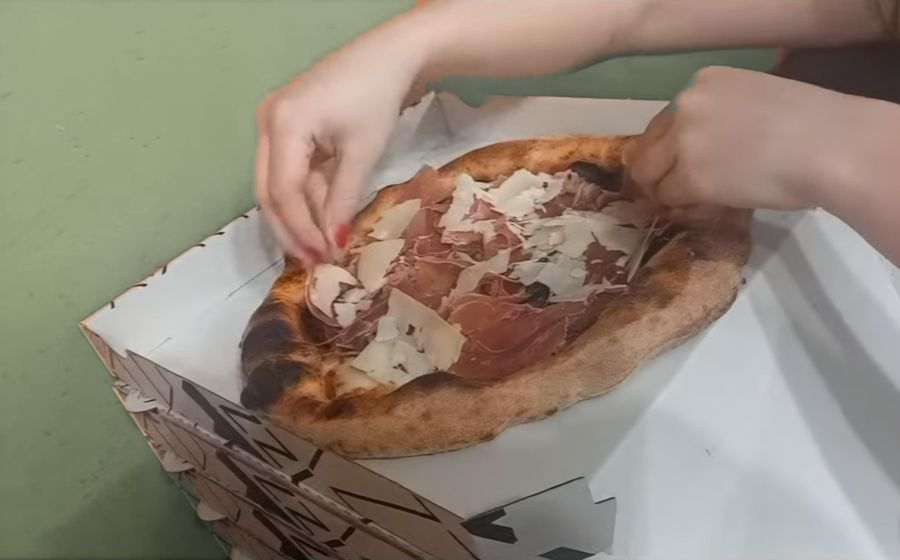
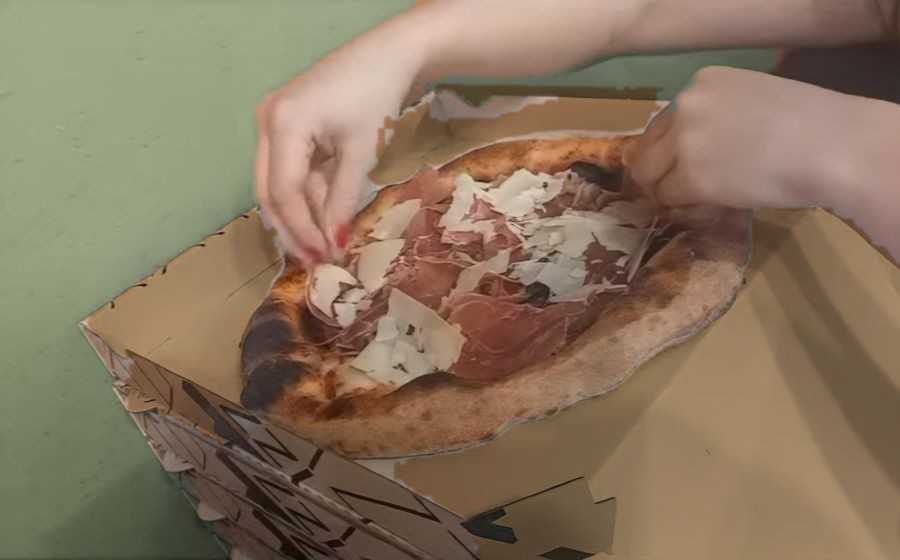
Prova: cartone craft nella foto crudo; voti recensioni in Poppins come gli altri numeri
Claude-Session: https://claude.ai/code/session_01VttuGCFUxa7xeo49rCehPE

Changed region(s): [[0.4356, 0.3643, 1.0, 1.0], [0.0933, 0.3643, 0.3111, 0.7893], [0.4044, 0.1518, 0.7467, 0.3339]]

diff --git a/prova/index.html b/prova/index.html
@@ -108,7 +108,7 @@ h2+.lead{margin:0 0 18px;color:var(--muted)}
 .revn{color:var(--muted);font-size:12.5px;margin:2px 0 12px}
 .rev{display:grid;gap:12px;grid-template-columns:repeat(auto-fit,minmax(min(100%,260px),1fr))}
 .rev a{display:flex;align-items:center;gap:14px;text-decoration:none;background:var(--panel);border:1px solid var(--line);border-radius:16px;padding:16px 18px}
-.rev .sc{font:400 30px/1 var(--display);color:var(--amber);white-space:nowrap}
+.rev .sc{font:700 28px/1 var(--body);color:var(--amber);white-space:nowrap}
 .rev .st{color:var(--amber);letter-spacing:2px}
 .rev .src{font-weight:600}.rev .sm{color:var(--muted);font-size:13px}
 .info{display:grid;gap:12px;grid-template-columns:repeat(auto-fit,minmax(min(100%,300px),1fr))}

diff --git a/_src/site/home.tpl.html b/_src/site/home.tpl.html
@@ -84,7 +84,7 @@ h2+.lead{margin:0 0 18px;color:var(--muted)}
 .revn{color:var(--muted);font-size:12.5px;margin:2px 0 12px}
 .rev{display:grid;gap:12px;grid-template-columns:repeat(auto-fit,minmax(min(100%,260px),1fr))}
 .rev a{display:flex;align-items:center;gap:14px;text-decoration:none;background:var(--panel);border:1px solid var(--line);border-radius:16px;padding:16px 18px}
-.rev .sc{font:400 30px/1 var(--display);color:var(--amber);white-space:nowrap}
+.rev .sc{font:700 28px/1 var(--body);color:var(--amber);white-space:nowrap}
 .rev .st{color:var(--amber);letter-spacing:2px}
 .rev .src{font-weight:600}.rev .sm{color:var(--muted);font-size:13px}
 .info{display:grid;gap:12px;grid-template-columns:repeat(auto-fit,minmax(min(100%,300px),1fr))}

diff --git a/_src/recolor/kraft.py b/_src/recolor/kraft.py
@@ -1,0 +1,25 @@
+# crudo.jpg: cartone bianco -> craft (disegni neri restano). uso: python3 kraft.py in.jpg out.jpg [anteprima.jpg]
+import cv2,numpy as np,sys
+im=cv2.imread(sys.argv[1]);h,w=im.shape[:2]
+hsv=cv2.cvtColor(im,cv2.COLOR_BGR2HSV).astype(np.float32);H,S,V=hsv[...,0],hsv[...,1],hsv[...,2]
+box=((S<45)&(V>40)).astype(np.uint8)          # bianco/grigio/nero del cartone
+poly=np.array([(76,322),(255,206),(398,108),(430,84),(690,88),(900,178),(900,560),(215,560)],np.int32)
+inbox=np.zeros((h,w),np.uint8);cv2.fillPoly(inbox,[poly],1)
+big=np.zeros((h,w),np.uint8);cv2.ellipse(big,(493,292),(285,175),-14,0,360,1,-1)
+sat=((S>55)&(big>0)).astype(np.uint8)
+sat=cv2.morphologyEx(sat,cv2.MORPH_CLOSE,cv2.getStructuringElement(cv2.MORPH_ELLIPSE,(41,41)))
+n,lab,st,_=cv2.connectedComponentsWithStats(sat,8);k=1+int(np.argmax(st[1:,4]));pz=(lab==k).astype(np.uint8)
+ff=pz.copy();m=np.zeros((h+2,w+2),np.uint8);cv2.floodFill(ff,m,(0,0),1);pz=pz|(1-ff)
+pz=cv2.erode(pz,np.ones((5,5),np.uint8))
+keep=(box&inbox).astype(np.uint8);keep[pz>0]=0
+keep=cv2.morphologyEx(keep,cv2.MORPH_OPEN,np.ones((3,3),np.uint8))
+n,lab,st,_=cv2.connectedComponentsWithStats(keep,8)
+k2=np.zeros_like(keep)
+for i in range(1,n):
+    if st[i,4]>400: k2[lab==i]=1
+keep=cv2.morphologyEx(k2,cv2.MORPH_CLOSE,np.ones((5,5),np.uint8));keep[pz>0]=0;keep[inbox==0]=0
+a=cv2.GaussianBlur(keep.astype(np.float32),(0,0),1.2)[...,None]
+kraft=np.array([128,172,212],np.float32)/255   # BGR del craft chiaro
+res=im.astype(np.float32)*(1-a)+(im.astype(np.float32)*kraft)*a
+cv2.imwrite(sys.argv[2],res.clip(0,255).astype(np.uint8),[cv2.IMWRITE_JPEG_QUALITY,90])
+if len(sys.argv)>3: cv2.imwrite(sys.argv[3],np.hstack([im,res.clip(0,255).astype(np.uint8)]))
